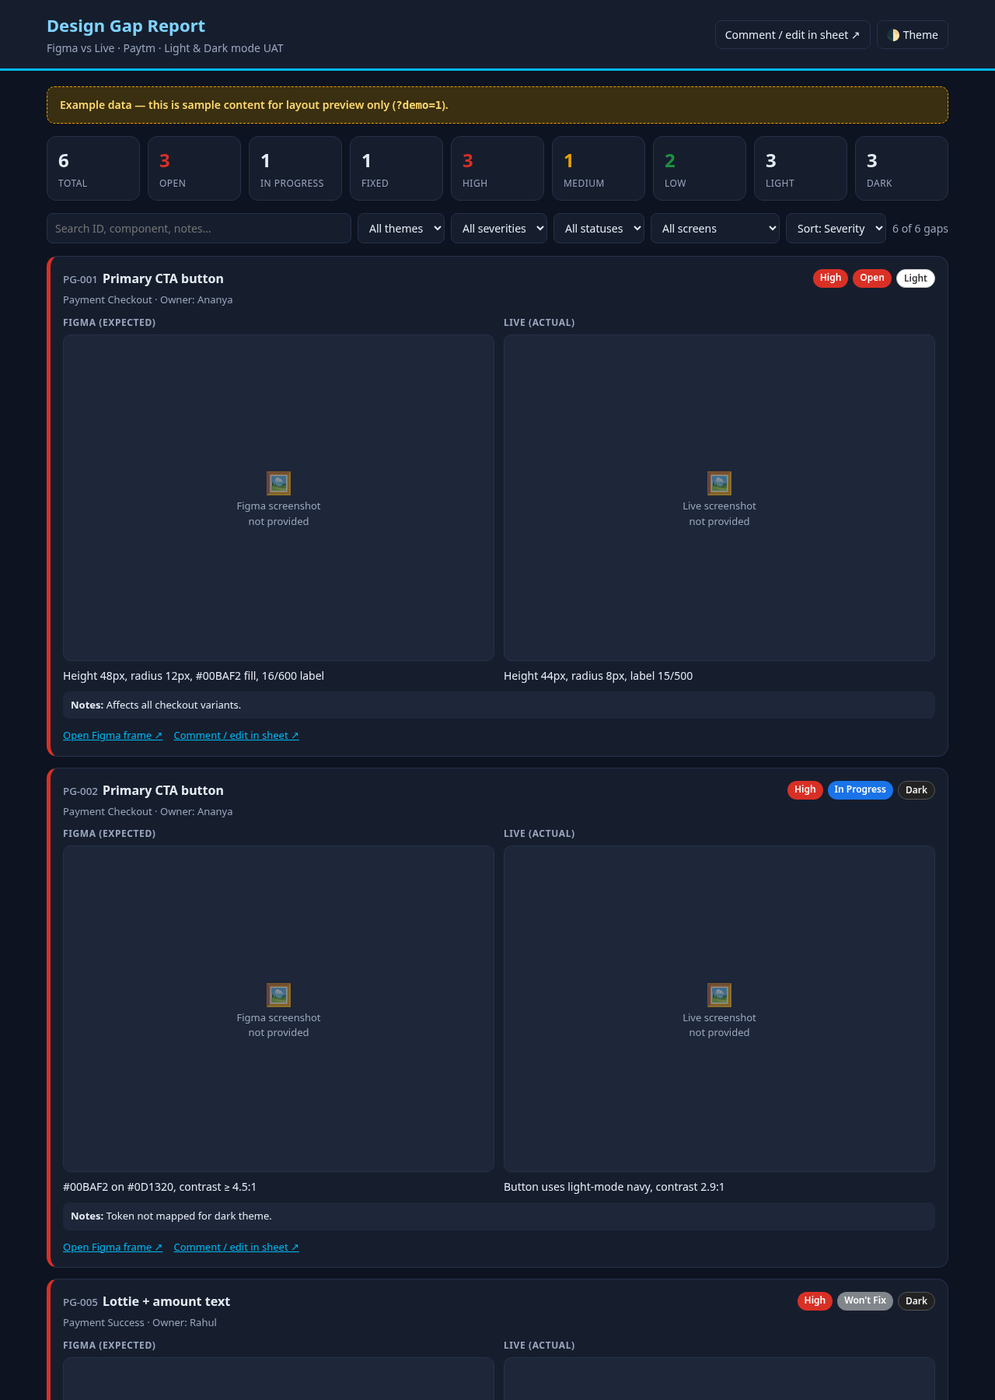
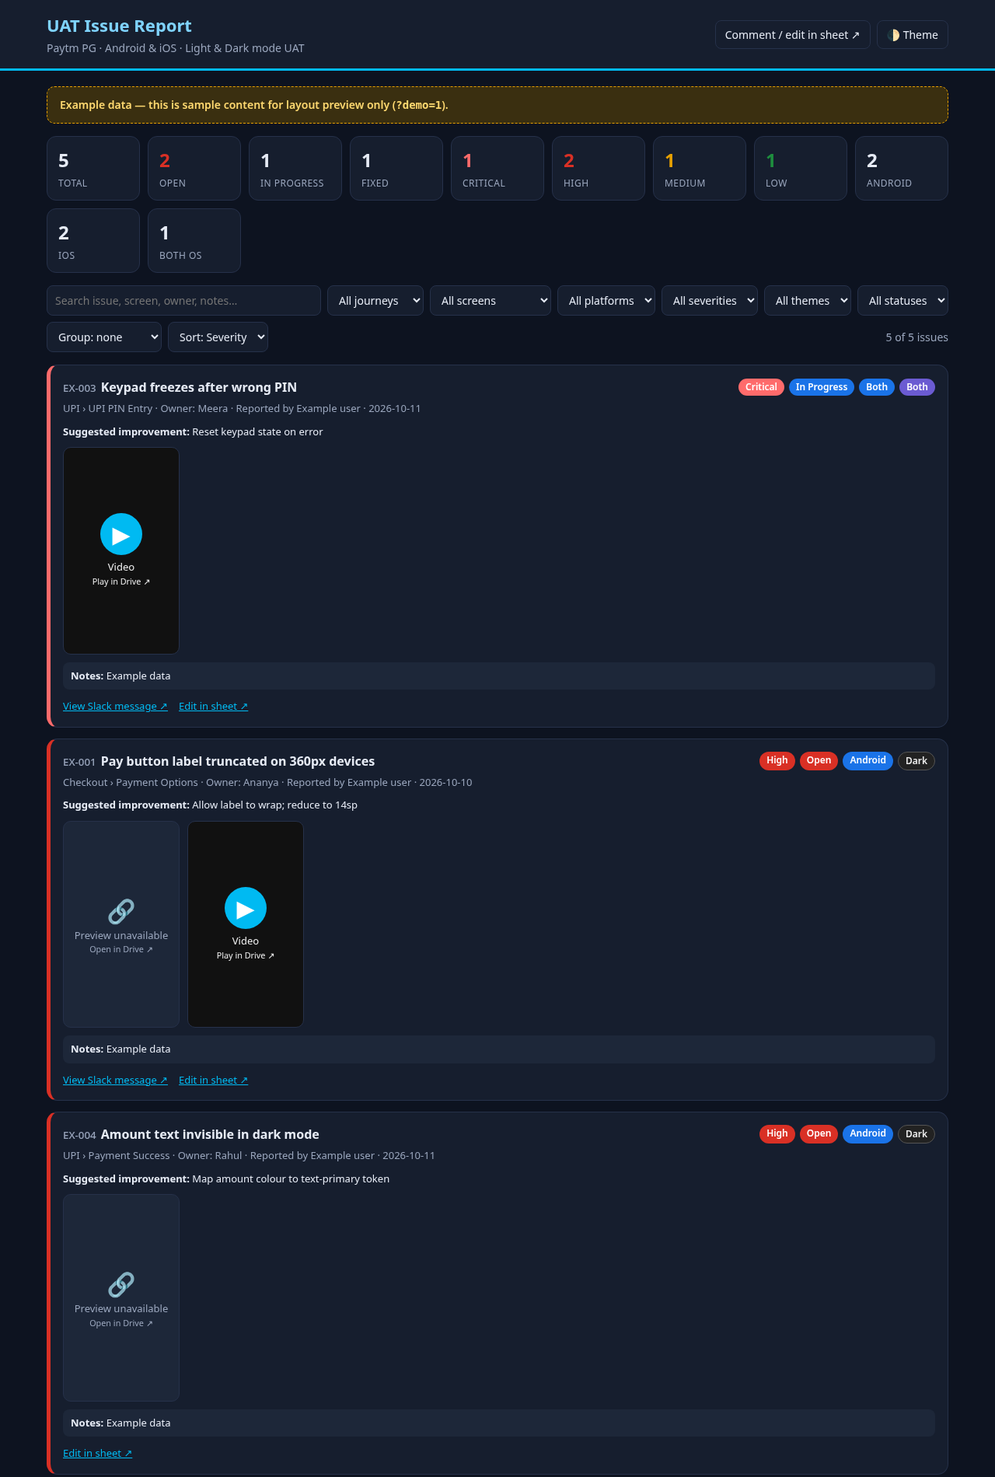
Update report to Slack UAT format

diff --git a/app.js b/app.js
@@ -3,14 +3,26 @@ const SHEET_ID = '1taeplqlRJGmUUCkMzvc2wzhCvcmkzGnvjbLDrYxPFqg';
 const SHEET_TAB = 'Gaps';
 const CSV_URL = `https://docs.google.com/spreadsheets/d/${SHEET_ID}/gviz/tq?tqx=out:csv&sheet=${encodeURIComponent(SHEET_TAB)}`;
 const SHEET_URL = `https://docs.google.com/spreadsheets/d/${SHEET_ID}/edit`;
-const FIELDS = ['id','screen','component','theme','expected','actual','severity','owner','status','figmaLink','figmaShot','liveShot','notes'];
+
+/* Columns are mapped by HEADER NAME (case/spacing/bracket-insensitive), never by position.
+   key -> accepted header aliases. Reordering or inserting columns in the sheet is safe. */
+const COLUMNS = {
+  id:['id'], date:['date reported','date'], reporter:['reported by','reporter'], journey:['journey'], screen:['screen'],
+  issue:['issue'], platform:['platform'], suggestion:['suggested improvement','suggestion'], severity:['severity'],
+  theme:['theme','mode'], mediaStatus:['media status','screenshot/video'], media:['media links','media','screenshots'],
+  status:['status'], owner:['owner'], slack:['slack link','slack'], notes:['notes']
+};
+const OPTS = { platform:['Android','iOS','Both'], severity:['Critical','High','Medium','Low'], theme:['Light','Dark','Both'],
+  mediaStatus:['Attached','Not required'], status:['Open','In Progress','Fixed',"Won't Fix"] };
+const FILTERS = [['journey','fJourney','All journeys'],['screen','fScreen','All screens'],['platform','fPlatform','All platforms'],
+  ['severity','fSev','All severities'],['theme','fTheme','All themes'],['status','fStatus','All statuses']];
 
 const $ = s => document.querySelector(s);
 const esc = s => String(s ?? '').replace(/[&<>"']/g, c => ({'&':'&amp;','<':'&lt;','>':'&gt;','"':'&quot;',"'":'&#39;'}[c]));
 const slug = s => String(s||'').toLowerCase().replace(/[^a-z0-9]+/g,'-').replace(/^-|-$/g,'');
 const safeUrl = u => /^https?:\/\//i.test(u||'') ? u : '';
+const normHead = h => String(h||'').toLowerCase().replace(/\(.*?\)/g,'').replace(/[^a-z0-9/]+/g,' ').trim();
 
-/* RFC4180-ish CSV parser: quotes, escaped quotes, commas & newlines inside fields */
 function parseCSV(text){
   const rows=[]; let row=[], f='', q=false;
   text = text.replace(/^\uFEFF/,'');
@@ -31,94 +43,116 @@ function driveId(url){
   const m = url.match(/\/file\/d\/([\w-]+)/) || url.match(/[?&]id=([\w-]+)/) || url.match(/\/d\/([\w-]{20,})/);
   return m ? m[1] : '';
 }
-const thumb = url => { const id=driveId(url); return id ? `https://drive.google.com/thumbnail?id=${id}&sz=w1600` : safeUrl(url); };
-
+const thumb = url => { const id=driveId(url); return id ? `https://drive.google.com/thumbnail?id=${id}&sz=w1000` : safeUrl(url); };
 function normalize(v, opts){ const t=String(v||'').trim().toLowerCase(); return opts.find(o=>o.toLowerCase()===t) || String(v||'').trim(); }
+function normPlatform(v){ const t=String(v||'').trim().toLowerCase();
+  if(/both|android.*(ios|apple)|(ios|apple).*android/.test(t)) return 'Both';
+  if(/ios|apple|iphone/.test(t)) return 'iOS'; if(/android/.test(t)) return 'Android'; return String(v||'').trim(); }
+
+/* Media Links: one per line (commas/whitespace also accepted). A line may carry a label, e.g. "video: <url>". */
+function parseMedia(cell){
+  return String(cell||'').split(/\r?\n/).map(s=>s.trim()).filter(Boolean).flatMap(line=>{
+    const urls=line.match(/https?:\/\/[^\s,]+/g)||[];
+    const lineVideo=/video/i.test(line.replace(/https?:\/\/\S+/g,''));
+    return urls.map(url=>({url, video: lineVideo || /video/i.test(url) || /\.(mp4|mov|m4v|webm)(\?|$)/i.test(url) || (urls.length===1 && /\.(mp4|mov|m4v|webm)\b/i.test(line))}));
+  });
+}
 
 function toGaps(rows){
   if(!rows.length) return [];
-  const body = /^\s*id\s*$/i.test(rows[0][0]||'') ? rows.slice(1) : rows;
-  return body.filter(r => r.some(c => String(c).trim())).map(r => {
-    const g={}; FIELDS.forEach((k,i)=>g[k]=String(r[i]??'').trim());
-    g.theme=normalize(g.theme,['Light','Dark']);
-    g.severity=normalize(g.severity,['High','Medium','Low']);
-    g.status=normalize(g.status,['Open','In Progress','Fixed',"Won't Fix"]);
+  const head=rows[0].map(normHead);
+  const idx={}; for(const [k,al] of Object.entries(COLUMNS)) idx[k]=head.findIndex(h=>al.includes(h));
+  if(idx.id<0 && idx.issue<0) throw new Error('Header row not recognised (expected columns such as "ID", "Issue")');
+  return rows.slice(1).filter(r=>r.some(c=>String(c).trim())).map(r=>{
+    const g={}; for(const k in COLUMNS) g[k]=idx[k]>=0?String(r[idx[k]]??'').trim():'';
+    g.platform=normPlatform(g.platform);
+    for(const k of ['severity','theme','mediaStatus','status']) g[k]=normalize(g[k],OPTS[k]);
+    g.mediaList=parseMedia(g.media);
     return g;
   });
 }
 
-const DEMO = [
- ['PG-001','Payment Checkout','Primary CTA button','Light','Height 48px, radius 12px, #00BAF2 fill, 16/600 label','Height 44px, radius 8px, label 15/500','High','Ananya','Open','https://www.figma.com/','','','Affects all checkout variants.'],
- ['PG-002','Payment Checkout','Primary CTA button','Dark','#00BAF2 on #0D1320, contrast ≥ 4.5:1','Button uses light-mode navy, contrast 2.9:1','High','Ananya','In Progress','https://www.figma.com/','','','Token not mapped for dark theme.'],
- ['PG-003','Saved Cards','Card tile shadow','Light','Elevation 2 (0 2 8 rgba(0,0,0,.08))','No shadow, 1px border instead','Low','Rahul','Fixed','https://www.figma.com/','','',''],
- ['PG-004','UPI Intent','App icons grid','Dark','4-column grid, 16px gutter','3-column grid, icons clipped on 360px width','Medium','Meera','Open','','','','Repro on Pixel 6a, "small" font.'],
- ['PG-005','Payment Success','Lottie + amount text','Dark','Amount 28/700 #FFFFFF','Amount rendered #13203A (invisible on dark)','High','Rahul',"Won't Fix",'https://www.figma.com/','','','Deferred to v2 redesign.'],
- ['PG-006','Net Banking','Bank search field','Light','Placeholder "Search for your bank", 14/400','Placeholder "Search", 12/400','Low','Meera','Open','https://www.figma.com/','','','']
-].map(r=>r);
+const H=['ID','Date Reported','Reported By','Journey','Screen','Issue','Platform','Suggested Improvement','Severity','Theme','Media Status','Media Links','Status','Owner','Slack Link','Notes'];
+const DEMO = [H,
+ ['EX-001','2026-10-10','Example user','Checkout','Payment Options','Pay button label truncated on 360px devices','Android','Allow label to wrap; reduce to 14sp','High','Dark','Attached','https://drive.google.com/file/d/EXAMPLE_IMG_1/view\nvideo: https://drive.google.com/file/d/EXAMPLE_VID_1/view','Open','Ananya','https://slack.com/archives/EXAMPLE','Example data'],
+ ['EX-002','2026-10-10','Example user','Checkout','Saved Cards','Card tile shadow missing vs Figma','iOS','Use elevation-2 token','Low','Light','Attached','https://drive.google.com/file/d/EXAMPLE_IMG_2/view\nhttps://drive.google.com/file/d/EXAMPLE_IMG_3/view\nhttps://drive.google.com/file/d/EXAMPLE_IMG_4/view','Fixed','Rahul','https://slack.com/archives/EXAMPLE','Example data'],
+ ['EX-003','2026-10-11','Example user','UPI','UPI PIN Entry','Keypad freezes after wrong PIN','Both','Reset keypad state on error','Critical','Both','Attached','screen-recording.mov https://drive.google.com/file/d/EXAMPLE_VID_2/view','In Progress','Meera','https://slack.com/archives/EXAMPLE','Example data'],
+ ['EX-004','2026-10-11','Example user','UPI','Payment Success','Amount text invisible in dark mode','Android','Map amount colour to text-primary token','High','Dark','Attached','https://drive.google.com/file/d/EXAMPLE_IMG_5/view','Open','Rahul','','Example data'],
+ ['EX-005','2026-10-12','Example user','Net Banking','Bank Search','Placeholder copy differs from spec','iOS','Use "Search for your bank"','Medium','Light','Not required','','Won\'t Fix','Meera','https://slack.com/archives/EXAMPLE','Example data']
+];
 
 let ALL=[], isDemo=new URLSearchParams(location.search).get('demo')==='1';
 
-/* ===== Theme ===== */
 $('#themeBtn').onclick=()=>{ const t=document.documentElement.dataset.theme==='dark'?'light':'dark'; document.documentElement.dataset.theme=t; try{localStorage.setItem('pgTheme',t)}catch(e){} };
 $('#sheetLink').href=SHEET_URL;
 
-/* ===== Render ===== */
 function summary(list){
   const c=(k,v)=>list.filter(g=>g[k]===v).length;
   const stats=[['Total',list.length,''],['Open',c('status','Open'),'open'],['In Progress',c('status','In Progress'),''],['Fixed',c('status','Fixed'),''],
-    ['High',c('severity','High'),'high'],['Medium',c('severity','Medium'),'med'],['Low',c('severity','Low'),'low'],['Light',c('theme','Light'),''],['Dark',c('theme','Dark'),'']];
+    ['Critical',c('severity','Critical'),'crit'],['High',c('severity','High'),'high'],['Medium',c('severity','Medium'),'med'],['Low',c('severity','Low'),'low'],
+    ['Android',c('platform','Android'),''],['iOS',c('platform','iOS'),''],['Both OS',c('platform','Both'),'']];
   $('#summary').innerHTML=stats.map(([l,n,cl])=>`<div class="stat ${cl}"><b>${n}</b><span>${l}</span></div>`).join('');
 }
 
-function shot(url,label){
-  const src=thumb(url), full=safeUrl(url)||src;
-  const ph=`<div class="ph"><i>🖼</i>${esc(label)} screenshot<br>${url?'could not load':'not provided'}</div>`;
-  if(!src) return `<div class="shot">${ph}</div>`;
-  return `<a class="shot" href="${esc(full)}" target="_blank" rel="noopener" title="Open full image"><img loading="lazy" referrerpolicy="no-referrer" alt="${esc(label)} screenshot" src="${esc(src)}" onerror="this.outerHTML=this.parentNode.dataset.ph"></a>`.replace('class="shot"',`class="shot" data-ph="${esc(ph)}"`);
+function linkTile(m, why){ return `<a class="tile link" href="${esc(m.url)}" target="_blank" rel="noopener"><i>🔗</i>${esc(why)}<br><small>Open in Drive ↗</small></a>`; }
+function mediaTile(m){
+  const url=safeUrl(m.url); if(!url) return '';
+  if(m.video) return `<a class="tile video" href="${esc(url)}" target="_blank" rel="noopener" title="Play video in Drive"><i>▶</i>Video<br><small>Play in Drive ↗</small></a>`;
+  const fb=linkTile(m,'Preview unavailable');
+  return `<a class="tile img" href="${esc(url)}" target="_blank" rel="noopener" data-fb="${esc(fb)}" title="Open full image"><img loading="lazy" referrerpolicy="no-referrer" alt="Screenshot" src="${esc(thumb(url))}" onerror="this.parentNode.outerHTML=this.parentNode.dataset.fb"></a>`;
+}
+function gallery(g){
+  if(g.mediaStatus==='Not required') return '';
+  if(!g.mediaList.length) return g.mediaStatus==='Attached' ? '<div class="nomedia">Media marked “Attached” but no Media Links added yet.</div>' : '';
+  return `<div class="gallery">${g.mediaList.map(mediaTile).join('')}</div>`;
 }
 
 function card(g){
-  const fl=safeUrl(g.figmaLink);
+  const sl=safeUrl(g.slack);
   return `<article class="card sev-${slug(g.severity)}">
-  <div class="card-h"><h2><small>${esc(g.id)}</small>${esc(g.component||'—')}</h2>
-   <div class="badges"><span class="badge b-${slug(g.severity)}">${esc(g.severity||'—')}</span><span class="badge b-${slug(g.status)}">${esc(g.status||'—')}</span><span class="badge b-${slug(g.theme)}">${esc(g.theme||'—')}</span></div></div>
-  <div class="meta">${esc(g.screen||'—')} · Owner: ${esc(g.owner||'Unassigned')}</div>
-  <div class="cmp">
-   <div class="col"><h4>Figma (expected)</h4>${shot(g.figmaShot,'Figma')}<p>${esc(g.expected)}</p></div>
-   <div class="col"><h4>Live (actual)</h4>${shot(g.liveShot,'Live')}<p>${esc(g.actual)}</p></div>
-  </div>
+  <div class="card-h"><h2><small>${esc(g.id)}</small>${esc(g.issue||'—')}</h2>
+   <div class="badges"><span class="badge b-${slug(g.severity)}">${esc(g.severity||'—')}</span><span class="badge b-${slug(g.status)}">${esc(g.status||'—')}</span><span class="badge b-plat">${esc(g.platform||'—')}</span><span class="badge b-${slug(g.theme)}">${esc(g.theme||'—')}</span></div></div>
+  <div class="meta">${esc(g.journey||'—')} › ${esc(g.screen||'—')} · Owner: ${esc(g.owner||'Unassigned')}${g.reporter?` · Reported by ${esc(g.reporter)}`:''}${g.date?` · ${esc(g.date)}`:''}</div>
+  ${g.suggestion?`<p class="sugg"><b>Suggested improvement:</b> ${esc(g.suggestion)}</p>`:''}
+  ${gallery(g)}
   ${g.notes?`<div class="notes"><b>Notes:</b> ${esc(g.notes)}</div>`:''}
-  <div class="links">${fl?`<a href="${esc(fl)}" target="_blank" rel="noopener">Open Figma frame ↗</a>`:''}<a href="${SHEET_URL}" target="_blank" rel="noopener">Comment / edit in sheet ↗</a></div>
+  <div class="links">${sl?`<a href="${esc(sl)}" target="_blank" rel="noopener">View Slack message ↗</a>`:''}<a href="${SHEET_URL}" target="_blank" rel="noopener">Edit in sheet ↗</a></div>
  </article>`;
 }
 
-const SEV={High:0,Medium:1,Low:2}, ST={Open:0,'In Progress':1,Fixed:2,"Won't Fix":3};
+const SEV={Critical:0,High:1,Medium:2,Low:3}, ST={Open:0,'In Progress':1,Fixed:2,"Won't Fix":3};
 function render(){
-  const q=$('#q').value.trim().toLowerCase(), th=$('#fTheme').value, sv=$('#fSev').value, st=$('#fStatus').value, sc=$('#fScreen').value, so=$('#sort').value;
-  let l=ALL.filter(g=>(!th||g.theme===th)&&(!sv||g.severity===sv)&&(!st||g.status===st)&&(!sc||g.screen===sc)&&(!q||Object.values(g).join(' ').toLowerCase().includes(q)));
+  const q=$('#q').value.trim().toLowerCase(), so=$('#sort').value, grp=$('#group').value;
+  const f=Object.fromEntries(FILTERS.map(([k,id])=>[k,$('#'+id).value]));
+  let l=ALL.filter(g=>FILTERS.every(([k])=>!f[k]||g[k]===f[k]) && (!q||Object.values(g).join(' ').toLowerCase().includes(q)));
   const cmp={sev:(a,b)=>(SEV[a.severity]??9)-(SEV[b.severity]??9)||(ST[a.status]??9)-(ST[b.status]??9),
     id:(a,b)=>a.id.localeCompare(b.id,undefined,{numeric:true}), status:(a,b)=>(ST[a.status]??9)-(ST[b.status]??9),
-    screen:(a,b)=>a.screen.localeCompare(b.screen), owner:(a,b)=>a.owner.localeCompare(b.owner)}[so];
+    date:(a,b)=>b.date.localeCompare(a.date), owner:(a,b)=>a.owner.localeCompare(b.owner)}[so];
   l.sort((a,b)=>cmp(a,b)||a.id.localeCompare(b.id,undefined,{numeric:true}));
   summary(l);
-  $('#count').textContent=`${l.length} of ${ALL.length} gaps`;
-  $('#list').innerHTML=l.length?l.map(card).join(''):'<div class="empty">No gaps match the current filters.</div>';
+  $('#count').textContent=`${l.length} of ${ALL.length} issues`;
+  if(!l.length){ $('#list').innerHTML='<div class="empty">No issues match the current filters.</div>'; return; }
+  if(!grp){ $('#list').innerHTML=l.map(card).join(''); return; }
+  const groups=new Map(); l.forEach(g=>{ const k=g[grp]||'(none)'; if(!groups.has(k)) groups.set(k,[]); groups.get(k).push(g); });
+  $('#list').innerHTML=[...groups].sort((a,b)=>a[0].localeCompare(b[0])).map(([k,v])=>`<h3 class="grp">${esc(k)} <span>${v.length}</span></h3>${v.map(card).join('')}`).join('');
 }
 
 function init(gaps){
   ALL=gaps;
-  const screens=[...new Set(gaps.map(g=>g.screen).filter(Boolean))].sort();
-  $('#fScreen').innerHTML='<option value="">All screens</option>'+screens.map(s=>`<option>${esc(s)}</option>`).join('');
-  ['#q','#fTheme','#fSev','#fStatus','#fScreen','#sort'].forEach(s=>$(s).addEventListener('input',render));
+  FILTERS.forEach(([k,id,label])=>{
+    const vals=[...new Set([...(OPTS[k]||[]).filter(o=>gaps.some(g=>g[k]===o)), ...gaps.map(g=>g[k]).filter(Boolean).sort()])];
+    $('#'+id).innerHTML=`<option value="">${label}</option>`+vals.map(v=>`<option>${esc(v)}</option>`).join('');
+  });
+  ['#q','#sort','#group',...FILTERS.map(f=>'#'+f[1])].forEach(s=>$(s).addEventListener('input',render));
   render();
 }
 
 function showError(detail){
   const e=$('#errorBox'); e.hidden=false;
-  e.innerHTML=`<h3>Couldn’t load gap data from the Google Sheet</h3>
+  e.innerHTML=`<h3>Couldn’t load UAT data from the Google Sheet</h3>
   This page reads the sheet directly from your browser, so it only works when:
-  <ol><li>The Google Sheet is shared as <b>“Anyone with the link – Viewer”</b> and has a tab named <b>${esc(SHEET_TAB)}</b>.</li>
-  <li>The Figma and Live screenshot Drive folders are shared as <b>“Anyone with the link – Viewer”</b> (otherwise images show placeholders).</li></ol>
+  <ol><li>The Google Sheet is shared as <b>“Anyone with the link – Viewer”</b> and has a tab named <b>${esc(SHEET_TAB)}</b> with a header row.</li>
+  <li>Media files in Drive are shared as <b>“Anyone with the link – Viewer”</b> (otherwise images fall back to link tiles).</li></ol>
   <p>Preview the layout with <a href="?demo=1">example data (?demo=1)</a>. <small>Details: ${esc(detail)}</small></p>`;
   $('#list').innerHTML=''; $('#summary').innerHTML='';
 }
@@ -131,7 +165,7 @@ async function load(){
     const txt=await r.text();
     if(/^\s*<(!doctype|html)/i.test(txt)) throw new Error('Received a Google sign-in page instead of CSV (sheet is private)');
     const gaps=toGaps(parseCSV(txt));
-    if(!gaps.length) throw new Error('Sheet loaded but contains no gap rows');
+    if(!gaps.length) throw new Error('Sheet loaded but contains no issue rows');
     init(gaps);
   }catch(err){ showError(err.message||String(err)); }
 }

diff --git a/index.html b/index.html
@@ -2,14 +2,14 @@
 <html lang="en">
 <head>
 <meta charset="utf-8"><meta name="viewport" content="width=device-width,initial-scale=1">
-<title>Paytm — Figma vs Live Design Gap Report</title>
+<title>Paytm PG — UAT Issue Report</title>
 <link rel="stylesheet" href="styles.css">
 <script>(function(){var p=new URLSearchParams(location.search).get('theme');var s=null;try{s=localStorage.getItem('pgTheme')}catch(e){}var t=p||s||(matchMedia('(prefers-color-scheme: dark)').matches?'dark':'light');document.documentElement.dataset.theme=t;})();</script>
 </head>
 <body>
 <header class="top">
   <div class="wrap top-in">
-    <div><h1>Design Gap Report</h1><p class="sub">Figma vs Live · Paytm · Light &amp; Dark mode UAT</p></div>
+    <div><h1>UAT Issue Report</h1><p class="sub">Paytm PG · Android &amp; iOS · Light &amp; Dark mode UAT</p></div>
     <div class="top-actions">
       <a id="sheetLink" class="btn" target="_blank" rel="noopener">Comment / edit in sheet ↗</a>
       <button id="themeBtn" class="btn" aria-label="Toggle colour theme">🌓 Theme</button>
@@ -21,18 +21,14 @@
   <div id="errorBox" class="banner error" hidden></div>
   <section id="summary" class="summary" aria-label="Summary"></section>
   <section class="controls" aria-label="Filters">
-    <input id="q" type="search" placeholder="Search ID, component, notes…">
-    <select id="fTheme"><option value="">All themes</option><option>Light</option><option>Dark</option></select>
-    <select id="fSev"><option value="">All severities</option><option>High</option><option>Medium</option><option>Low</option></select>
-    <select id="fStatus"><option value="">All statuses</option><option>Open</option><option>In Progress</option><option>Fixed</option><option>Won't Fix</option></select>
-    <select id="fScreen"><option value="">All screens</option></select>
-    <select id="sort">
-      <option value="sev">Sort: Severity</option><option value="id">Sort: ID</option>
-      <option value="status">Sort: Status</option><option value="screen">Sort: Screen</option><option value="owner">Sort: Owner</option>
-    </select>
+    <input id="q" type="search" placeholder="Search issue, screen, owner, notes…">
+    <select id="fJourney"></select><select id="fScreen"></select><select id="fPlatform"></select>
+    <select id="fSev"></select><select id="fTheme"></select><select id="fStatus"></select>
+    <select id="group"><option value="">Group: none</option><option value="journey">Group: Journey</option><option value="screen">Group: Screen</option><option value="platform">Group: Platform</option><option value="severity">Group: Severity</option><option value="theme">Group: Theme</option><option value="status">Group: Status</option></select>
+    <select id="sort"><option value="sev">Sort: Severity</option><option value="id">Sort: ID</option><option value="date">Sort: Newest</option><option value="status">Sort: Status</option><option value="owner">Sort: Owner</option></select>
     <span id="count" class="count"></span>
   </section>
-  <section id="list" class="list"><div class="loading">Loading gaps…</div></section>
+  <section id="list" class="list"><div class="loading">Loading issues…</div></section>
 </main>
 <footer class="wrap foot">Data: Google Sheet tab “Gaps”. Generated client-side; no data is stored by this page.</footer>
 <script src="app.js"></script>

diff --git a/styles.css b/styles.css
@@ -44,3 +44,13 @@ h1{margin:0;font-size:22px;color:var(--navy)}.sub{margin:2px 0 0;color:var(--mut
 .loading,.empty{text-align:center;color:var(--muted);padding:40px}
 .foot{color:var(--muted);font-size:12px;padding:30px 20px}
 @media(max-width:640px){.cmp{grid-template-columns:1fr}.count{margin-left:0}}
+:root{--crit:#8b0000}[data-theme=dark]{--crit:#ff6b6b}
+.card.sev-critical{border-left-color:var(--crit)}.b-critical{background:var(--crit);color:#fff}.stat.crit b{color:var(--crit)}
+.b-plat{background:var(--prog)}.b-both{background:#6b5bd2;color:#fff}
+.sugg{margin:0 0 10px;font-size:13px}
+.gallery{display:flex;gap:10px;flex-wrap:wrap;margin:6px 0}
+.tile{width:150px;aspect-ratio:9/16;display:flex;flex-direction:column;align-items:center;justify-content:center;text-align:center;background:var(--ph);border:1px solid var(--line);border-radius:10px;overflow:hidden;text-decoration:none;color:var(--muted);font-size:13px}
+.tile img{width:100%;height:100%;object-fit:cover}.tile i{font-style:normal;font-size:30px}
+.tile.video{background:#111;color:#eee}.tile.video i{width:54px;height:54px;line-height:54px;border-radius:50%;background:var(--accent);color:#fff;margin-bottom:6px}
+.nomedia{font-size:13px;color:var(--muted);font-style:italic;margin:6px 0}
+.grp{margin:10px 0 0;font-size:15px;color:var(--navy)}.grp span{color:var(--muted);font-weight:400;font-size:13px}

diff --git a/README.md b/README.md
@@ -1,4 +1,4 @@
-# Paytm — Figma vs Live Design Gap Report
+# Paytm PG — UAT Issue Report
 
 Static, no-build report site (vanilla HTML/CSS/JS). Reads gap rows live from Google Sheet
 `1taeplqlRJGmUUCkMzvc2wzhCvcmkzGnvjbLDrYxPFqg` (tab **Gaps**) via the gviz CSV endpoint.
@@ -21,21 +21,42 @@ After ~1 min the site is at `https://<org-or-user>.github.io/<repo>/`.
 Local preview: `python3 -m http.server 8000` → http://localhost:8000/?demo=1
 
 ## 2. Sharing required for live data
-The browser fetches the sheet anonymously, so:
-1. Sheet → **Share → General access → Anyone with the link → Viewer**.
-2. Drive folders → same setting for both:
-   - Figma screenshots: https://drive.google.com/drive/folders/1it0ZqZpM5CPM6kzx2hANCu6VRmzzz0bz
-   - Live screenshots: https://drive.google.com/drive/folders/1lWAg6XX4pEME-rGIXGyYrpepU60kT-i-
-Until then the page shows an explanatory error, and images show placeholders.
+The browser fetches the sheet anonymously, so the Sheet and the media files must be
+**Anyone with the link → Viewer** (media lives in PG UAT › *Slack Media*:
+https://drive.google.com/drive/folders/1UB5ISj21TGFO1IJqk8C3tTbI7Y__Rg1a).
+Until then the page shows an explanatory error and images fall back to link tiles.
 
-## 3. Adding a gap
-1. Upload the Figma export to the Figma folder and the device screenshot to the Live folder
-   (suggested names: `PG-012_figma.png`, `PG-012_live.png`).
-2. For each file: right-click → **Share → Copy link** (format `https://drive.google.com/file/d/<id>/view`).
-3. Add a row in the **Gaps** tab, columns in this order:
-   `ID | Screen / Page | Component | Theme (Light/Dark) | Figma Expected | Live Actual | Severity (High/Medium/Low) | Owner | Status (Open/In Progress/Fixed/Won't Fix) | Figma Frame Link | Figma Screenshot (Drive link) | Live Screenshot (Drive link) | Notes`
-4. Reload the page (Sheets' gviz endpoint can cache for a minute or two).
-Drive links in `/file/d/<id>/view`, `open?id=<id>` or `uc?id=<id>` form are auto-converted to thumbnails.
+## 3. Sheet schema (tab "Gaps")
+Columns are matched **by header name**, so order can change and extra columns are ignored:
+
+| Col | Header | Values |
+|---|---|---|
+| A | ID | e.g. PG-012 |
+| B | Date Reported | yyyy-mm-dd |
+| C | Reported By | |
+| D | Journey | |
+| E | Screen | |
+| F | Issue | |
+| G | Platform | Android / iOS / Both (dropdown) |
+| H | Suggested Improvement | |
+| I | Severity | Critical / High / Medium / Low (dropdown) |
+| J | Theme | Light / Dark / Both (dropdown) |
+| K | Media Status | Attached / Not required (dropdown) |
+| L | Media Links | one or more Drive links, one per line |
+| M | Status | Open / In Progress / Fixed / Won't Fix (dropdown) |
+| N | Owner | |
+| O | Slack Link | permalink to the #uat message |
+| P | Notes | |
+
+Slack #uat post → row mapping: Journey→D, Screen→E, Issue→F, "Android or apple"→G, Suggested improvement→H,
+Severity→I, dark/light/both→J, Screenshot/Video→K. Upload Slack attachments to *Slack Media*, then paste
+their Drive links (`/file/d/<id>/view`) into L.
+
+**Media rendering:** each link is shown as a Drive thumbnail. A link is treated as a **video** (play tile that
+opens Drive) if its line contains the word `video` or ends in `.mp4/.mov/.m4v/.webm` — e.g. write
+`video: https://drive.google.com/file/d/<id>/view`. If a thumbnail fails it becomes a link tile.
+When Media Status is *Not required* no media placeholder is shown.
+The two rows marked EXAMPLE in the sheet are samples — delete them once real data is added.
 
 ## 4. Confidentiality
 "Anyone with the link" plus a public GitHub Pages site means **anyone who finds the URL can read the
